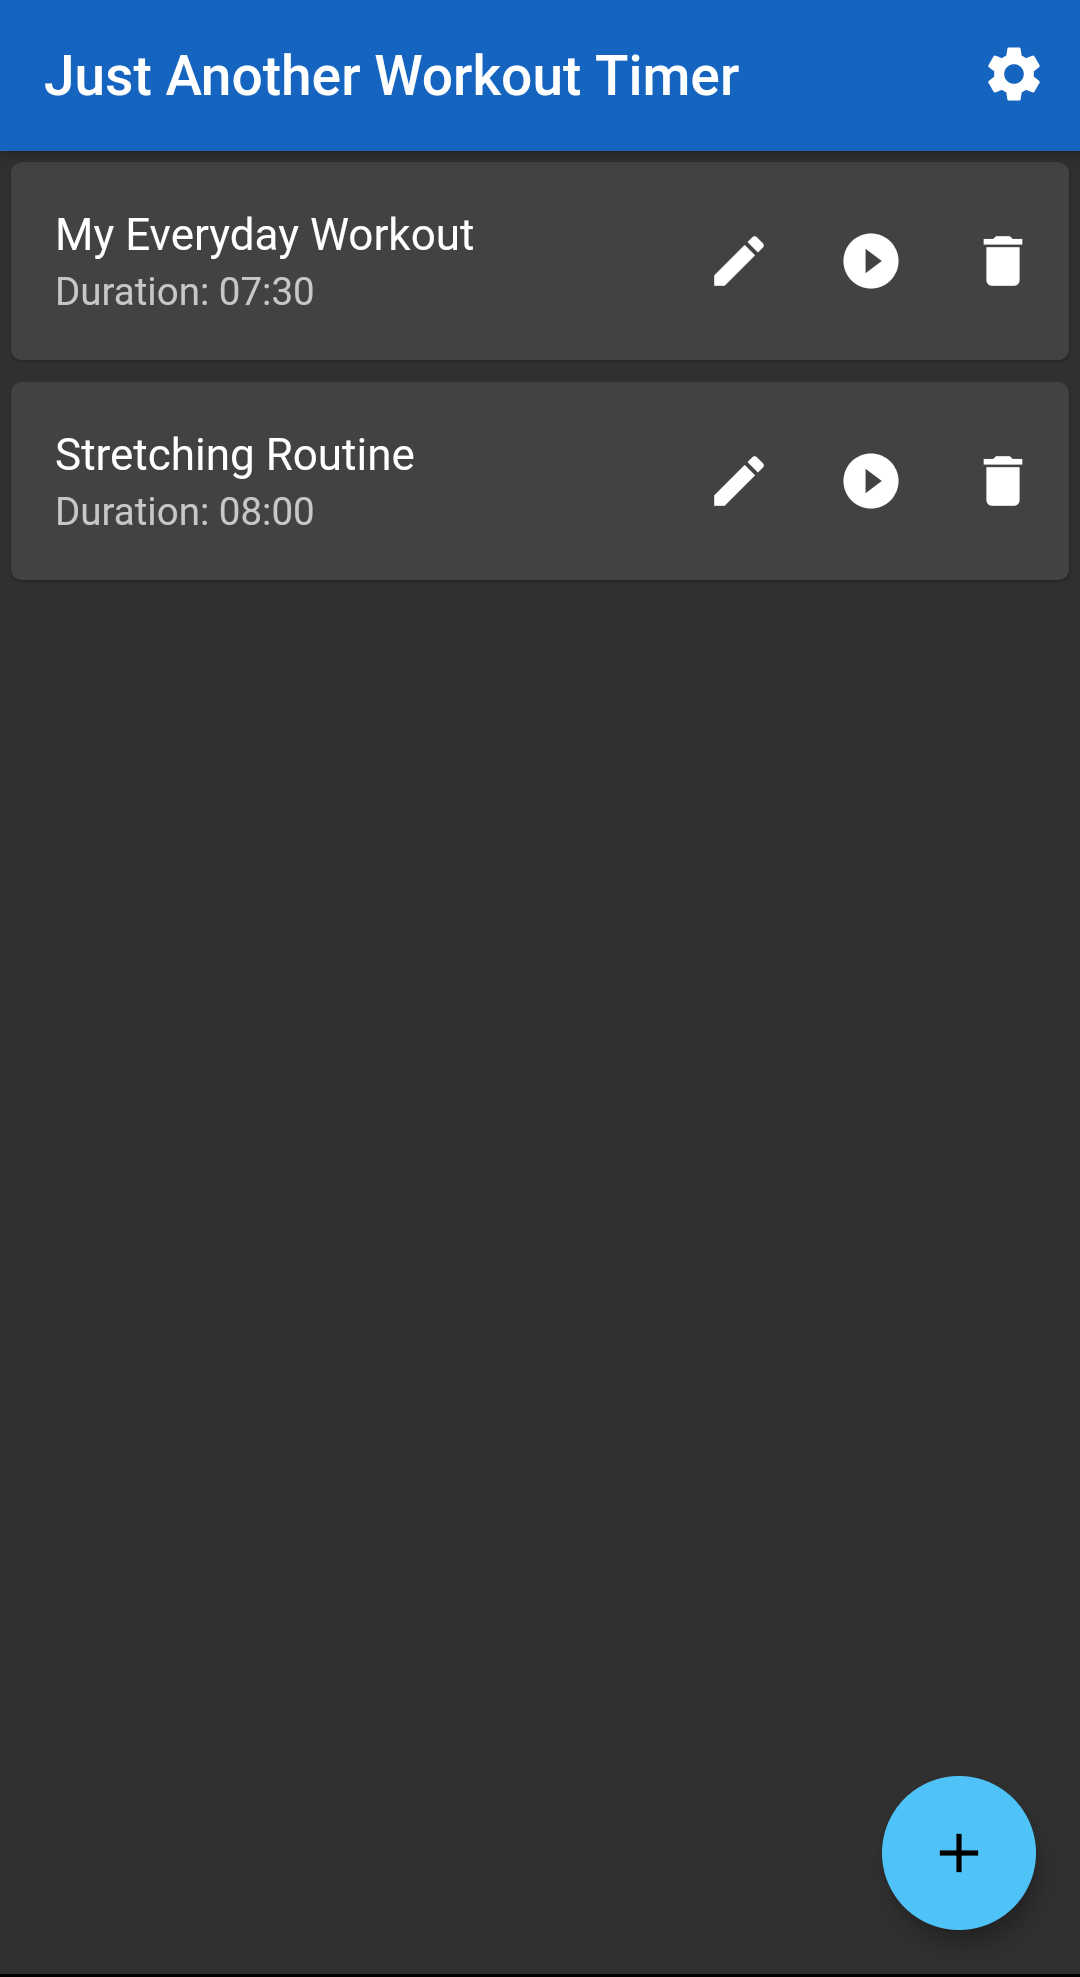
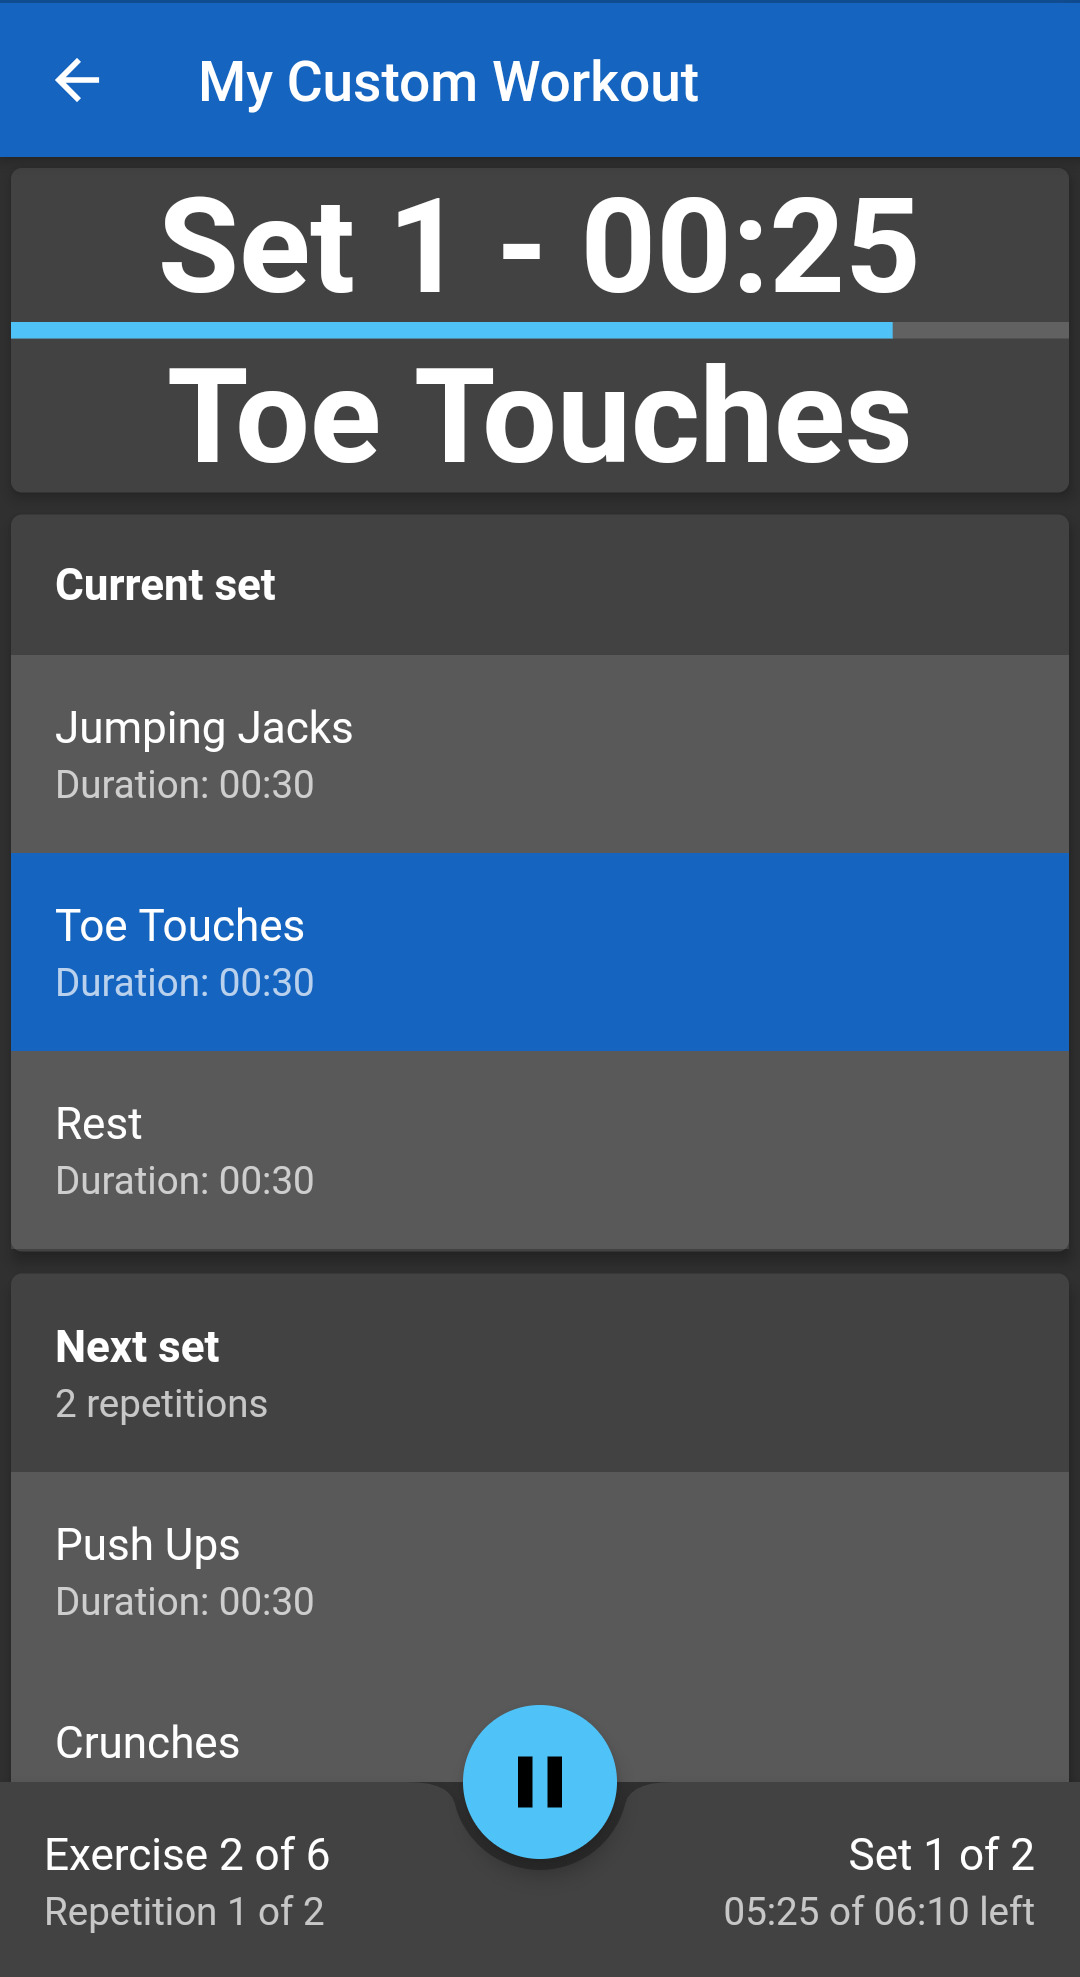
docs: update screenshots and descriptions

diff --git a/README.md b/README.md
@@ -40,37 +40,38 @@
     <li>
       <a href="#about-the-project">About The Project</a>
       <ul>
-        <li><a href="#built-with">Built With</a></li>
+        <li><a href="#screenshots">Screenshots</a></li>
       </ul>
     </li>
     <li><a href="#roadmap">Roadmap</a></li>
     <li><a href="#contributing">Contributing</a></li>
     <li><a href="#license">License</a></li>
-    <li><a href="#contact">Contact</a></li>
   </ol>
 </details>
-
-
 
 <!-- ABOUT THE PROJECT -->
 ## About The Project
 
-<img src="/fastlane/metadata/android/en-US/images/phoneScreenshots/1.jpg" alt="Home Screen" width="250">
-<img src="/fastlane/metadata/android/en-US/images/phoneScreenshots/2.jpg" alt="Workout Screen" width="250">
+* Create complex workouts easily
+* Define your own exercises with custom durations
+* Add exercises to custom sets
+* Text-to-Speech announcements
+* Modern Material Design built with Flutter
+* Ad-free
+* Free and Open-Source
+
+### Screenshots
+
+<img src="/fastlane/metadata/android/en-US/images/phoneScreenshots/1.jpg" alt="Workout Screen" width="250">
+<img src="/fastlane/metadata/android/en-US/images/phoneScreenshots/2.jpg" alt="Home Screen" width="250">
 <img src="/fastlane/metadata/android/en-US/images/phoneScreenshots/3.jpg" alt="Builder Screen" width="250">
-
-
-### Built With
-
-* [Flutter](https://flutter.dev/)
+<img src="/fastlane/metadata/android/en-US/images/phoneScreenshots/4.jpg" alt="Settings Screen" width="250">
 
 
 <!-- ROADMAP -->
 ## Roadmap
 
 See the [open issues](https://github.com/blockbasti/just_another_workout_timer/issues) for a list of proposed features (and known issues).
-
-
 
 <!-- CONTRIBUTING -->
 ## Contributing
@@ -83,22 +84,10 @@ Contributions are what make the open source community such an amazing place to b
 4. Push to the Branch (`git push origin feature/AmazingFeature`)
 5. Open a Pull Request
 
-
-
 <!-- LICENSE -->
 ## License
 
 Distributed under the MIT License. See `LICENSE` for more information.
-
-
-
-<!-- CONTACT -->
-## Contact
-
-Bastian Block - blockbasti99@gmail.com
-
-Project Link: [https://github.com/blockbasti/just_another_workout_timer](https://github.com/blockbasti/just_another_workout_timer)
-
 
 <!-- MARKDOWN LINKS & IMAGES -->
 <!-- https://www.markdownguide.org/basic-syntax/#reference-style-links -->
